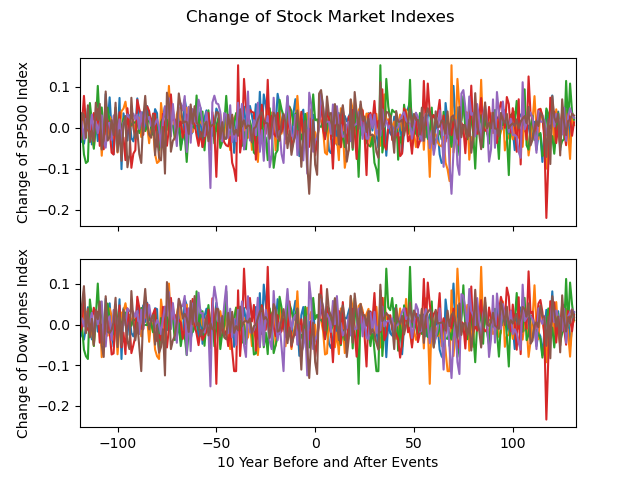
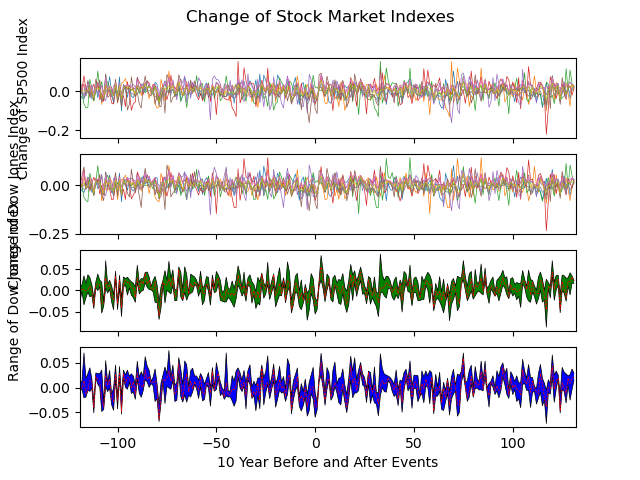
change plot_sp_dj function to show interquartile range

diff --git a/final_project.py b/final_project.py
@@ -677,18 +677,40 @@ def plot_sp_dj(df1: pd.DataFrame, df2: pd.DataFrame, year_num: int, plot_name: s
     :param plot_name: the string name of the plot
     :return: plot of the given dataframe
     """
+    # change index of data to make the January of "Year Zero" as 0 in x-axis.
     df1.index = df1.index - (12 * year_num)
     df2.index = df2.index - (12 * year_num)
+    # get the 25 and 75 percentile bounds for plotting
+    df1["75pct"] = df1.apply(pd.DataFrame.describe, axis=1)["75%"]
+    df1["25pct"] = df1.apply(pd.DataFrame.describe, axis=1)["25%"]
+    df1["median"] = df1.median(axis=1)
+    df2["75pct"] = df2.apply(pd.DataFrame.describe, axis=1)["75%"]
+    df2["25pct"] = df2.apply(pd.DataFrame.describe, axis=1)["25%"]
+    df2["median"] = df2.median(axis=1)
 
-    fig, (ax1, ax2) = plt.subplots(2, sharex=True)
+    fig, (ax1, ax2, ax3, ax4) = plt.subplots(4, sharex=True)
     fig.suptitle('Change of Stock Market Indexes')
-    ax1.plot(df1)
+
+    ax1.plot(df1, linewidth=0.5)
     ax1.set_ylabel("Change of SP500 Index")
 
-    ax2.plot(df2)
-    ax2.set_xlim(-12 * year_num + 1, 12 * (year_num + 1))
-    ax2.set_xlabel(str(year_num) + " Year Before and After Events")
+    ax2.plot(df2, linewidth=0.5)
     ax2.set_ylabel("Change of Dow Jones Index")
+
+    ax3.plot(df1.index, df1["75pct"], color = 'black', label='75% percentile', linewidth=0.5)
+    ax3.plot(df1.index, df1["25pct"], color='black', label='25% percentile', linewidth=0.5)
+    ax3.plot(df1.index, df1["median"], '--', color='red', label='median', linewidth=0.5)
+    ax3.fill_between(df1.index, df1["75pct"], df1["25pct"], facecolor='green')
+    ax3.set_ylabel("Range of SP500 Index")
+
+    ax4.plot(df2.index, df2["75pct"], color='black', label='75% percentile', linewidth=0.5)
+    ax4.plot(df2.index, df2["25pct"], color='black', label='25% percentile', linewidth=0.5)
+    ax4.plot(df2.index, df2["median"], '--', color='red', label='median', linewidth=0.5)
+    ax4.fill_between(df2.index, df2["75pct"], df2["25pct"], facecolor='blue')
+    ax4.set_xlim(-12 * year_num + 1, 12 * (year_num + 1))
+    ax4.set_xlabel(str(year_num) + " Year Before and After Events")
+    ax3.set_ylabel("Range of Dow Jones Index")
+
     plt.savefig('Plots/StockIndex/'+ plot_name +'.png')
 
 
